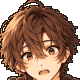
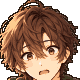
Keep blush soft in the stand-in portraits
The line-keeping step now applies only where the result is genuinely dark,
so mid tones such as blush are no longer turned into red blotches.

diff --git a/scripts/pixelate-portraits.py b/scripts/pixelate-portraits.py
@@ -31,7 +31,10 @@ def pixelate(source: Path, size: int, colors: int, zoom: float = 1.0, lines: int
         # Averaging washes out thin dark lines (eye outlines, lashes, hair strands). Thicken the dark
         # parts first and blend that in, so the lines survive the shrink.
         dark = rgb.filter(ImageFilter.MinFilter(lines)).resize((size, size), Image.Resampling.BOX)
-        small = Image.blend(small, dark, 0.5)
+        # Only where the result is genuinely dark (lines), not mid tones such as blush on the cheeks,
+        # which the per-channel minimum would turn into blotchy red patches.
+        only_lines = dark.convert("L").point(lambda v: 255 if v < 90 else 0 if v > 140 else int((140 - v) * 255 / 50))
+        small = Image.composite(Image.blend(small, dark, 0.5), small, only_lines)
     # Small images lose contrast; give faces and eyes a little back before reducing colours.
     small = ImageEnhance.Color(ImageEnhance.Contrast(small).enhance(1.15)).enhance(1.1)
     alpha = alpha_full.resize((size, size), Image.Resampling.BOX).point(lambda a: 255 if a >= 128 else 0)

diff --git a/PROGRESS.md b/PROGRESS.md
@@ -303,3 +303,4 @@
 
 - 用户反馈头像有些细节被吞掉。原因：缩小时平均颜色冲淡了细线（眼线、睫毛、发丝），20 色调色板把眼睛高光、发卡这类小色块并掉，裁切也不够靠近脸。
 - scripts/pixelate-portraits.py 改为：先把深色细线加粗再与普通缩小结果混合（--lines 7），调色板加 k-means 细化并增到 28 色，裁切更靠近脸（--zoom 0.74），仍为 80×80、界面 2 倍显示。7 张临时头像重新生成，眼神、高光、发卡、表情手势都清楚了。75/75 测试通过。
+- 补充：用户反馈腮红变得奇怪。原因是加粗细线用的逐通道最小值会把腮红周围的浅粉肤色变成深红斑块。改为只在真正的深色（线条）处混入加粗结果，中间色调（腮红、肤色阴影）保持普通缩小；其余效果不变。
